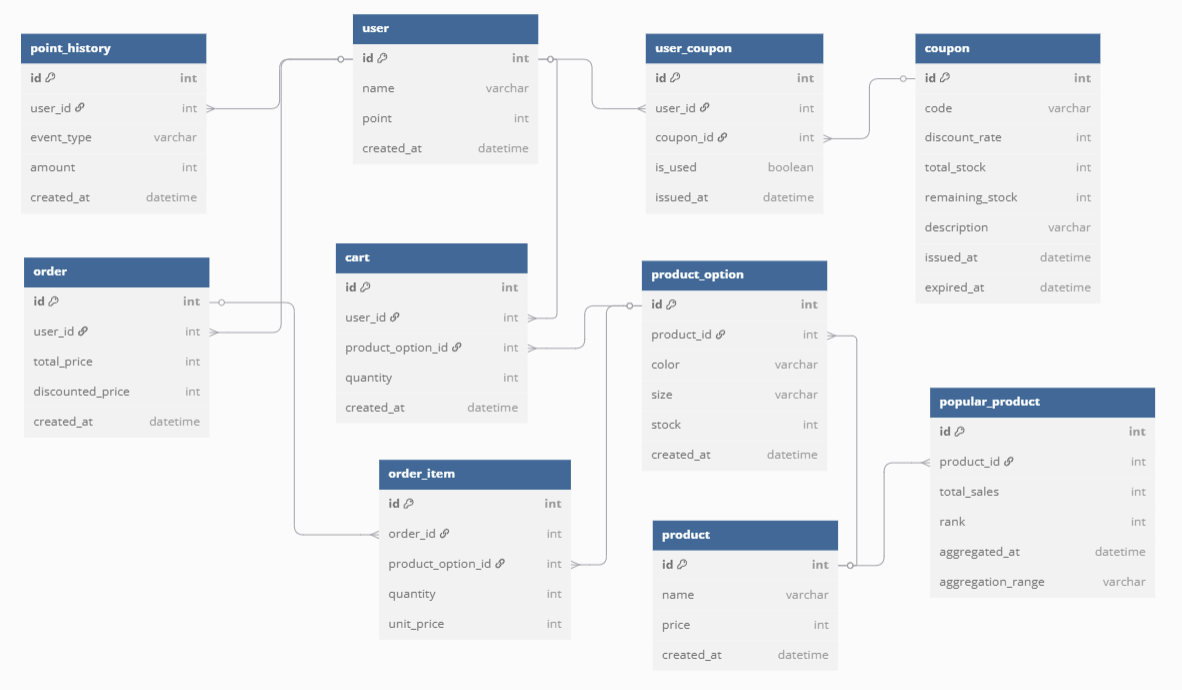
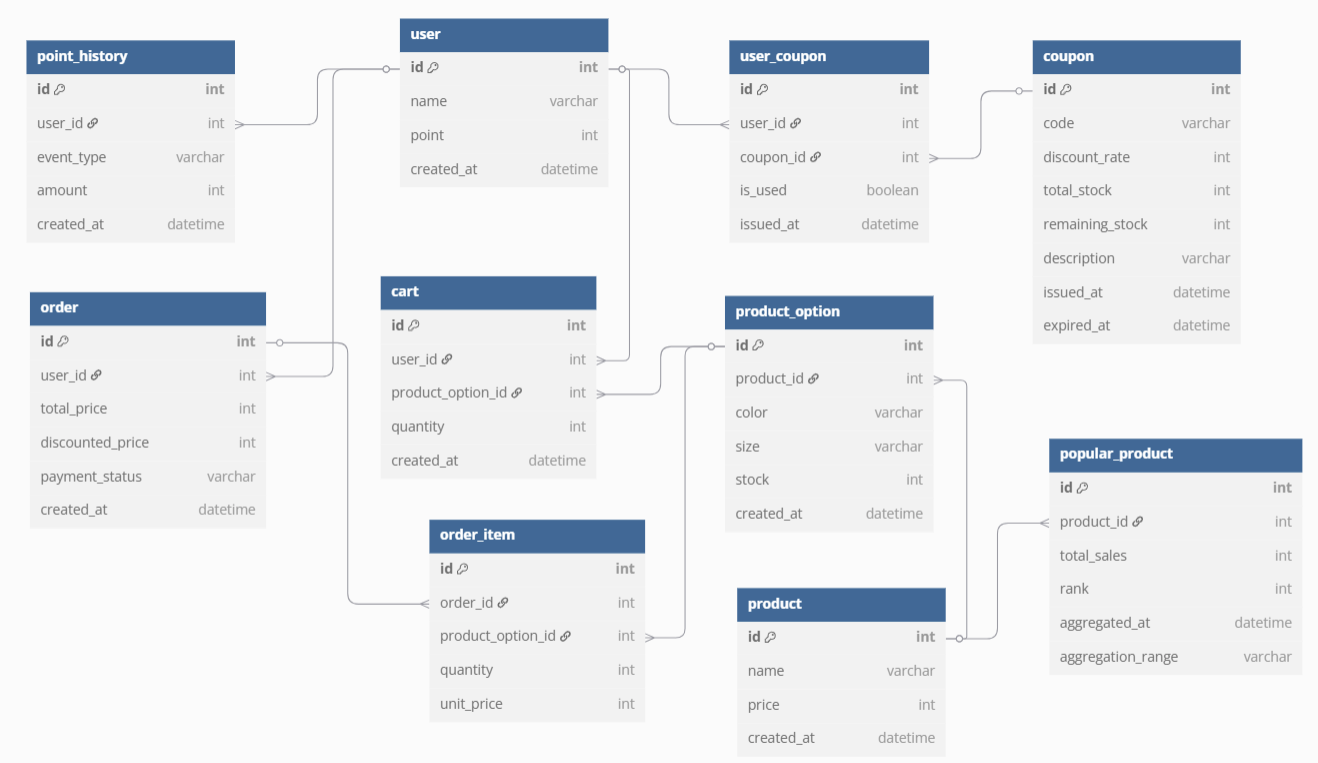
[Docs] ERD 수정: order(주문)테이블 결제상태 컬럼 추가

diff --git a/docs/05_Erd.md b/docs/05_Erd.md
@@ -6,7 +6,7 @@
 
 ## 🗂 ERD 테이블 설명
 
-> ✅ 본 문서는 e-commerce 서비스 구축을 위한 확정된 ERD 스키마에 대한 설명입니다. 모든 테이블은 단수형 명명 규칙을 따릅니다.
+> ✅ 본 문서는 e-commerce 프로젝트의 ERD 스키마에 대한 설명입니다. 모든 테이블은 단수형 명명 규칙을 따릅니다.
 
 
 ### 👤 user (사용자)
@@ -98,13 +98,14 @@
 
 ### 🧾 order (주문)
 
-| 컬럼명           | 타입      | 설명                           |
-|------------------|-----------|--------------------------------|
-| id               | int       | 주문 ID (PK)                  |
-| user_id          | int       | 사용자 ID (user 참조)         |
-| total_price      | int       | 총 주문 금액                  |
-| discounted_price | int       | 할인 적용 결제 금액          |
-| created_at       | datetime  | 주문 시각                     |
+| 컬럼명              | 타입       | 설명                                      |
+|------------------|----------|-----------------------------------------|
+| id               | int      | 주문 ID (PK)                              |
+| user_id          | int      | 사용자 ID (user 참조)                        |
+| total_price      | int      | 총 주문 금액                                 |
+| discounted_price | int      | 할인 적용 결제 금액                             |
+| payment_status   | varchar  | 결제 상태 (PENDING, PAID, FAILED, CANCELED) |
+| created_at       | datetime | 주문 시각                                   |
 
 ---
 
